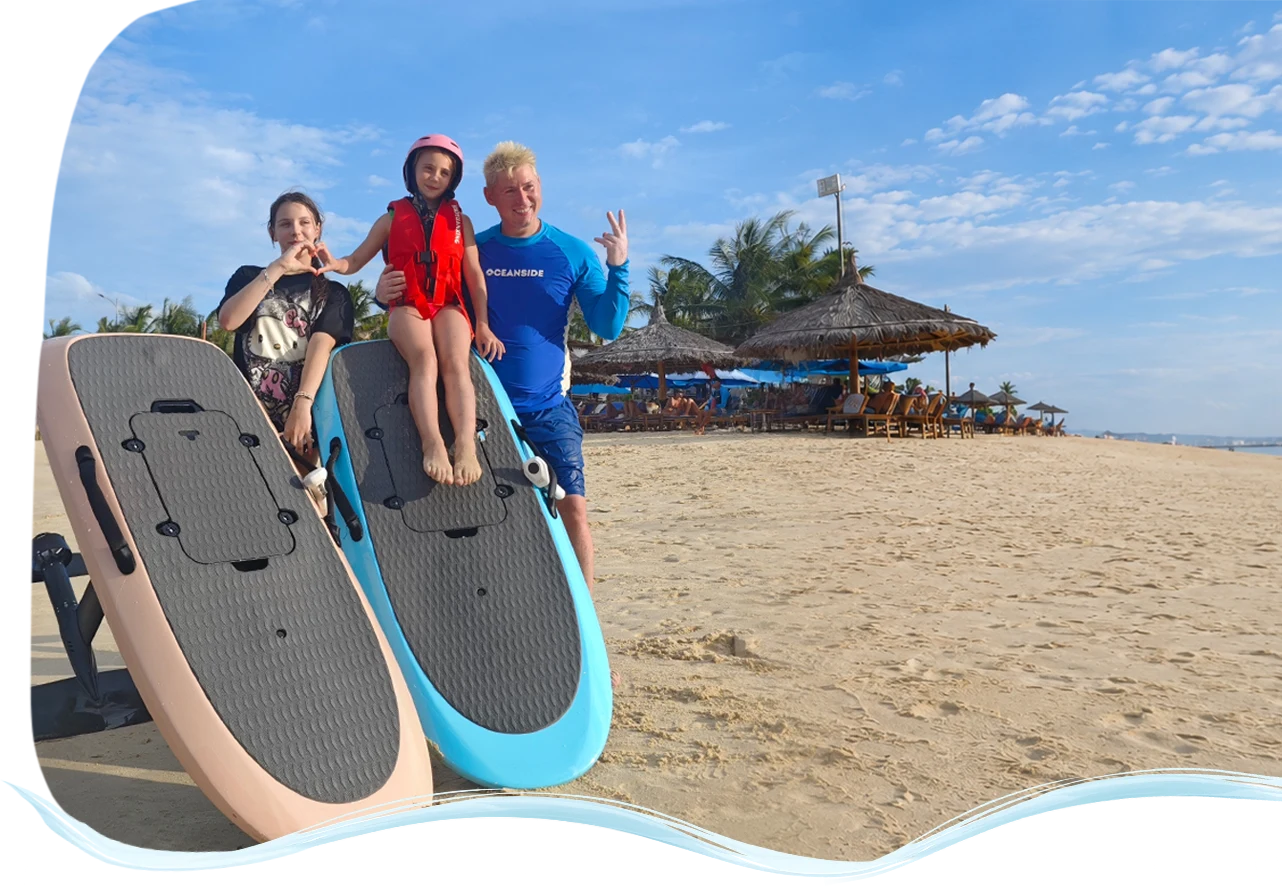
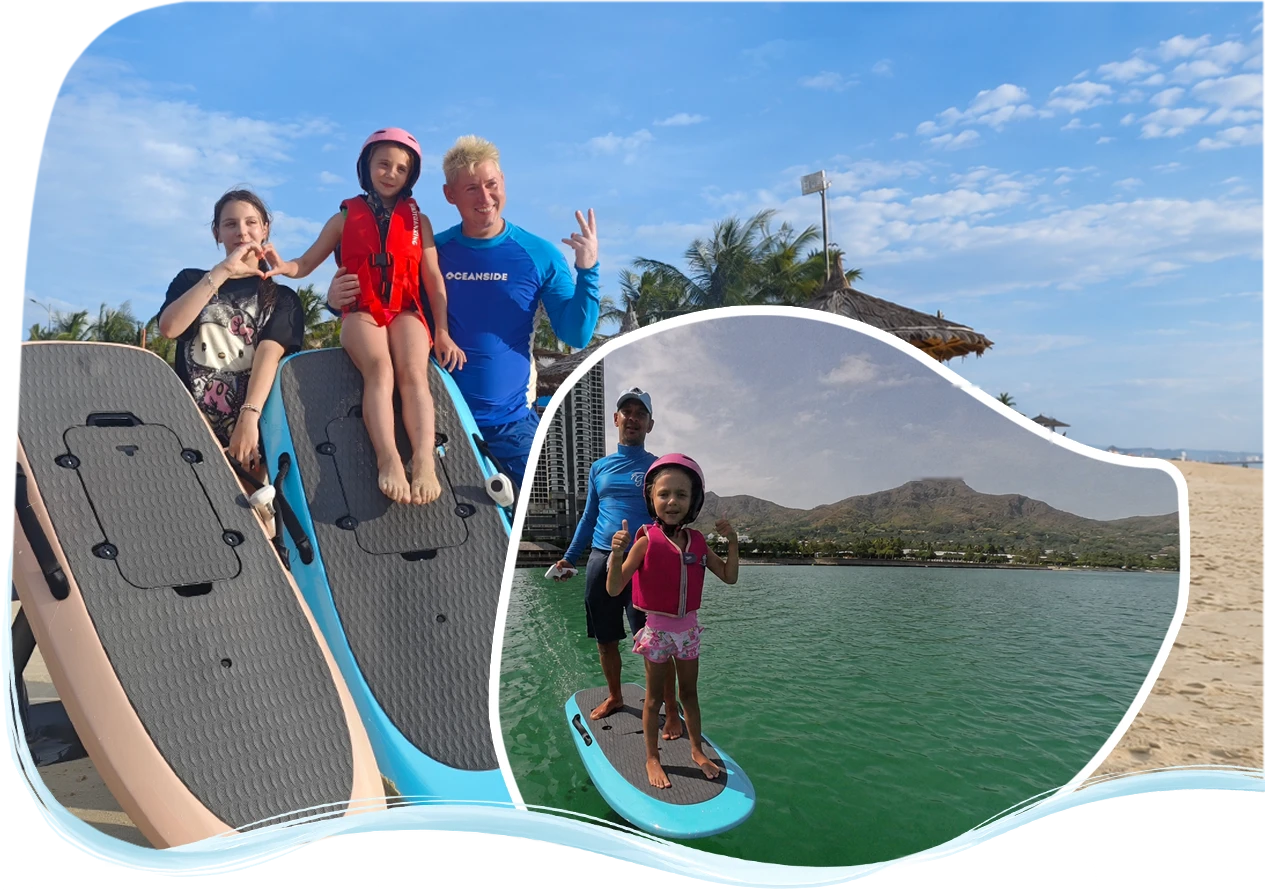
Put the review chips on the new hero mockup
The designer's V2 mockup ships the whole composition as one file — the
small photo is baked in, so the separate overlay image is gone — plus
three red placeholder frames marking where the review chips belong.

scripts/bake-reviews-hero.mjs trims the transparent margins and paints
the red frames out: the chips only show from xl, and left in the file
the frames would glow red on a phone.

Each chip now sits on its own placeholder, 5% larger so nothing peeks
out from under it, and measures itself in cqw so the text scales with
the frame instead of overflowing at 1280.

Claude-Session: https://claude.ai/code/session_01DxD1CbrgHAN7UFQ6YqNR8L

diff --git a/src/app/[locale]/reviews/page.tsx b/src/app/[locale]/reviews/page.tsx
@@ -56,11 +56,27 @@ const QUOTES = [
 // Google тем, у кого в профиле нет снимка. Цвет Google считает от аккаунта, и
 // снаружи его не вычислить: здесь взяты цвета из его же палитры монограмм.
 // Если сверить со скриншотами отзывов — правьте color, больше нигде не всплывёт.
+//
+// cx/cy — ЦЕНТР плашки в процентах от кадра hero.webp (1265×890). Это центры
+// трёх рамок-плейсхолдеров, нарисованных дизайнером прямо в макете
+// photo_video/отзывы_hero/hero_png_V2.png: каждая ровно 293×94 px, лежат по
+// координатам 1010,86 / 1345,197 / 1166,385 в исходнике (у него слева ещё
+// 407 px прозрачных полей, которые срезает scripts/bake-reviews-hero.mjs).
+// Сами рамки из картинки вытравлены тем же скриптом — плашки встают на их
+// место, а до xl плашек нет, и рамки светились бы на телефоне.
+// Пришлют новый макет — прогоните скрипт, он напечатает координаты рамок.
 const HERO_CHIPS = [
-  { name: "Polina Shchegoleva", text: "Полетели с первого раза", rating: 5, color: "#1a73e8" },
-  { name: "Евгений Курьянов", text: "Обязательно повторим!", rating: 5, color: "#1e8e3e" },
-  { name: "Илья Яковлев", text: "Непередаваемые эмоции!", rating: 5, color: "#9334e6" },
+  { name: "Polina Shchegoleva", text: "Полетели с первого раза", rating: 5, color: "#1a73e8", cx: 59.25, cy: 14.94 },
+  { name: "Евгений Курьянов", text: "Обязательно повторим!", rating: 5, color: "#1e8e3e", cx: 85.73, cy: 27.42 },
+  { name: "Илья Яковлев", text: "Непередаваемые эмоции!", rating: 5, color: "#9334e6", cx: 71.58, cy: 48.54 },
 ];
+
+// Размер плашки — плейсхолдер 293×94 плюс 5%, как просил заказчик: так плашка
+// садится на макет с запасом и из-под неё гарантированно ничего не выглядывает.
+// Считано от ширины кадра (1265 px), поэтому обе величины — в cqw: и высота
+// тоже, иначе при смене пропорции файла плашка поедет.
+const CHIP_W = ((293 * 1.05) / 1265) * 100; // 24.32
+const CHIP_H = ((94 * 1.05) / 1265) * 100; // 7.80
 
 // Фраза для крупной врезки. Вырезана из отзыва Полины дословно — врезка не
 // пересказывает отзыв, а цитирует его.
@@ -83,7 +99,7 @@ export default function ReviewsPage() {
   return (
     <>
       {/* ── Первый экран ── */}
-      {/* Собран по макету hero_png (1282×886 после обрезки прозрачных полей):
+      {/* Собран по макету hero_png_V2 (1265×890 после обрезки прозрачных полей):
           до lg кадр идёт полосой во всю ширину, текст под ним; от lg кадр
           уходит в правый край окна, а текст занимает левую половину — тот же
           приём, что на прайсе и тандеме.
@@ -97,12 +113,12 @@ export default function ReviewsPage() {
           выравнивании под кадром зияла пустая полоса в треть экрана.
 
           min-h на ПК — ровно высота кадра: 52% ширины окна, делённые на
-          пропорцию файла 1282/886, то есть 35.9vw. Кадр лежит absolute и
+          пропорцию файла 1265/890, то есть 36.6vw. Кадр лежит absolute и
           высоту секции не задаёт; её задавал текст, и от 1600 px фотография
           становилась выше текста — overflow-hidden срезал ей и волну снизу, и
           верхнюю плашку с отзывом (мерил 29.08.2026). Меняете долю кадра или
           файл — пересчитайте и это число. */}
-      <section className="relative overflow-hidden bg-gradient-to-b from-white to-surface-2 lg:flex lg:min-h-[35.9vw] lg:items-center">
+      <section className="relative overflow-hidden bg-gradient-to-b from-white to-surface-2 lg:flex lg:min-h-[36.6vw] lg:items-center">
         {/* Чайки — как на прайсе. Обе слева: правую половину от lg занимает
             кадр, а ниже lg он идёт во всю ширину и чайка легла бы на воду.
             От xl, а не от lg: до 1280 px контейнер прижат к краям окна, и
@@ -124,10 +140,12 @@ export default function ReviewsPage() {
           />
         </div>
 
-        {/* Кадры и плашки. Обе фотографии — PNG со своими краями: у большой
-            зашиты скруглённый левый угол и волна снизу, у малой — белая
-            обводка по фигурной форме. Ни подложек, ни масок им не нужно,
-            прозрачные края показывают фон страницы.
+        {/* Кадр и плашки. Фотография — PNG со своими краями: скруглённый левый
+            угол, волна снизу и вклеенный малый кадр в белой обводке. Ни
+            подложек, ни масок ей не нужно, прозрачные края показывают фон
+            страницы. Раньше малый кадр лежал отдельной картинкой поверх
+            большой; с макета V2 (31.08.2026) он впечён в тот же файл, и
+            подгонять его посадку кодом больше не нужно.
             52% — доля кадра от ширины ОКНА, ровно как на прайсе. Число решает
             всё: контейнер с текстом (max-w-6xl) с ростом окна отъезжает вправо
             со скоростью половины ширины, а левый край кадра — со скоростью
@@ -135,72 +153,77 @@ export default function ReviewsPage() {
             фотографию (мерил 29.08.2026); при 52% зазор держится хоть на 2560.
             Меняете долю — перемеряйте на широких экранах. */}
         <div className="lg:absolute lg:inset-y-0 lg:right-0 lg:flex lg:w-[52%] lg:items-center">
-          <div className="relative w-full">
+          {/* container-type: плашки с отзывами прибиты к точкам макета и
+              меряются в cqw — процентах от ширины ЭТОГО кадра. Без контейнера
+              cqw считались бы от окна, и на широких экранах плашки съехали бы
+              с фотографии. */}
+          <div className="relative w-full [container-type:inline-size]">
             <Image
               src="/media/photo/reviews/hero.webp"
               alt="Семья с электрофойлами на пляже в Нячанге после занятия с FlyGuru"
-              width={1282}
-              height={886}
+              width={1265}
+              height={890}
               priority
               quality={90}
               sizes="(min-width: 1024px) 54vw, 100vw"
               className="h-auto w-full"
             />
 
-            {/* Малый кадр внахлёст. Прижат к НИЗУ большого (bottom-0), а не
-                поставлен по координате сверху: обе фотографии кончаются одной
-                и той же волной и при общем низе сливаются в одну композицию —
-                ровно как на макете. Стоило поднять малый кадр выше, и он
-                повисал наклейкой посреди фотографии (так и было в первой
-                версии).
-                Доли — от ширины большого кадра, чтобы посадка держалась на
-                любой ширине окна. 53% подобраны по макету: правый край малого
-                кадра встаёт на 91%, там где его хвост переходит в волну.
+            {/* Три коротких отзыва плашками поверх кадра — каждая ровно на
+                своей рамке-плейсхолдере из макета (координаты и размер живут
+                в HERO_CHIPS / CHIP_W / CHIP_H наверху файла). Ставим по
+                ЦЕНТРУ рамки со сдвигом на половину себя: плашка на 5% больше
+                рамки, и запас должен лечь поровну со всех сторон.
 
-                ⚠ Эти три числа — 38%, 53% и bottom-0 — зашиты В САМ ФАЙЛ
-                hero-small.webp: у него низ обрезан ровно по кромке большого
-                кадра и поверх кромки нарисована та же волна, иначе белая
-                обводка малого кадра обрывалась поперёк волны прямым срезом
-                (так и было до 29.08.2026). Сдвинете или перемасштабируете
-                кадр — срез перестанет совпадать с волной, и файл придётся
-                печь заново из photo_video/отзывы_hero (littlephoto + wave). */}
-            <Image
-              src="/media/photo/reviews/hero-small.webp"
-              alt="Девочка самостоятельно едет на электрофойле рядом с инструктором"
-              width={1144}
-              height={872}
-              quality={90}
-              sizes="(min-width: 1024px) 28vw, 50vw"
-              className="absolute bottom-0 left-[38%] h-auto w-[53%]"
-            />
+                Всё внутри плашки меряется в cqw, а не в rem: коробка жёстко
+                привязана к макету, её ширина едет вместе с кадром, и текст
+                фиксированного размера на 1280 вылезал бы за края, а на 2560
+                болтался бы буквами в углу.
 
-            {/* Три коротких отзыва плашками поверх кадра.
-                Только от lg: на телефоне кадр идёт полосой во всю ширину, и
-                плашки поверх него легли бы на лица. Ничего при этом не
-                теряется — ровно эти же фразы едут в бегущей строке сразу под
-                первым экраном. */}
-            <ul className="absolute right-[2%] top-[6%] hidden w-[34%] flex-col gap-2.5 lg:flex">
+                Только от xl: от lg кадр ужимается до 52% окна, и на 1024 в
+                плашку остаётся 129 px — буквы становятся нечитаемыми. Ничего
+                при этом не теряется, ровно эти же фразы едут в бегущей строке
+                сразу под первым экраном. */}
+            <ul className="absolute inset-0 hidden xl:block">
               {HERO_CHIPS.map((c) => (
                 <li
                   key={c.name}
-                  className="flex items-center gap-2.5 rounded-2xl bg-white/95 p-2.5 shadow-[0_16px_34px_-22px_rgba(15,34,51,0.6)] backdrop-blur-sm xl:gap-3 xl:p-3"
+                  className="absolute flex -translate-x-1/2 -translate-y-1/2 items-center overflow-hidden bg-white/95 backdrop-blur-sm"
+                  style={{
+                    left: `${c.cx}%`,
+                    top: `${c.cy}%`,
+                    width: `${CHIP_W}cqw`,
+                    height: `${CHIP_H}cqw`,
+                    paddingInline: "1.1cqw",
+                    gap: "1cqw",
+                    borderRadius: "1.6cqw",
+                    boxShadow: "0 1.3cqw 2.8cqw -1.8cqw rgba(15,34,51,0.6)",
+                  }}
                 >
                   {/* Аватарка — кружок с первой буквой имени, как это рисует
                       сам Google тем, у кого в профиле нет фотографии. */}
                   <span
                     aria-hidden
-                    className="flex h-8 w-8 shrink-0 items-center justify-center rounded-full text-sm font-semibold text-white xl:h-9 xl:w-9 xl:text-base"
-                    style={{ backgroundColor: c.color }}
+                    className="flex shrink-0 items-center justify-center rounded-full font-semibold text-white"
+                    style={{
+                      width: "4cqw",
+                      height: "4cqw",
+                      fontSize: "1.9cqw",
+                      backgroundColor: c.color,
+                    }}
                   >
                     {c.name[0]}
                   </span>
                   <span className="min-w-0">
-                    <span className="flex gap-0.5 text-accent" aria-hidden>
+                    <span className="flex text-accent" aria-hidden style={{ gap: "0.15cqw" }}>
                       {Array.from({ length: c.rating }).map((_, i) => (
-                        <IconStar key={i} className="h-3 w-3 xl:h-3.5 xl:w-3.5" />
+                        <IconStar key={i} style={{ width: "1.05cqw", height: "1.05cqw" }} />
                       ))}
                     </span>
-                    <span className="mt-0.5 block text-[0.72rem] font-semibold leading-tight xl:text-sm">
+                    <span
+                      className="block font-semibold"
+                      style={{ marginTop: "0.35cqw", fontSize: "1.5cqw", lineHeight: 1.15 }}
+                    >
                       {c.text}
                     </span>
                     <span className="sr-only">— {c.name}, отзыв в Google Maps</span>
